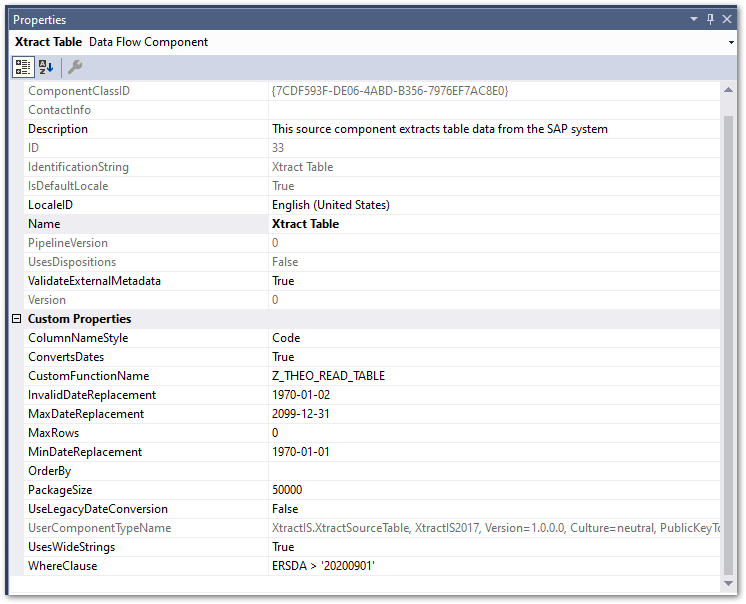
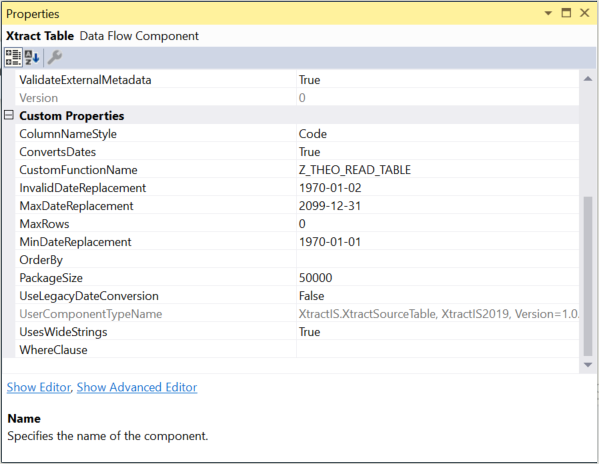
review - part1

Changed region(s): [[0.0, 0.0, 1.0, 1.0], [0.5109, 0.5129, 0.601, 0.5431]]

diff --git a/_includes/_content/en/parametrization/parametrization-via-variables.md b/_includes/_content/en/parametrization/parametrization-via-variables.md
@@ -1,11 +1,20 @@
+### How to use SSIS Variables with Xtract Components
 
-It is possible to use SSIS variables for parameterization. To use variables, place an @ symbol before a variable name.
-
-The following example shows usage of an SSIS variable named @vMONTH as a parameter for a BEx variable in the BW Cube component.
-1. Within the main window of the component, choose [**Variables**] (1). The BEx variable editing window opens (2).
-2. Instead of hardcoding a value for *Calendar Month/Year*, we enter an SSIS variable using the @-notation.
-3. Open the SSIS variables window and define an SSIS variable with the same name, leavig out the @-symbol. Fill that variable by entering a value in the *Value* field or through any other way in SSIS.
-![Properties](/img/content/xis/xis_vars.png){:class="img-reagierend"}
+SSIS variables store values that an SQL Server Integration Services package and its containers, tasks, and event handlers can use at run time.<br>
+To use SSIS variables for parameterization of Xtract components, place an @-symbol before the variable name.
 
 
+The following example shows how an SSIS variable named *@vMONTH* is used as a parameter for a BEx variable in the BW Cube component:
 
+1. Open *Variables* (1) in the main window of the component. The window "Edit BW Query Cube Variables" opens.<br>
+2. Instead of entering a fixed a value for *Calendar Month/Year*, enter an SSIS variable using the @-notation (2).<br>
+3. Confirm you input with **[OK]** and close the component.
+4. Open the SSIS variables window and add an SSIS variable with the same name, but without the @-symbol (3).
+![Variables](/img/content/xis/xis_vars.png){:class="img-reagierend"}
+5. Make sure to select the correct data type. In this case set the data type to *String*.
+6. Use the variable by entering values directly into the *Value* field or by assigning values in SSIS. <br>
+
+******
+#### Related Links
+
+- [Integration Services (SSIS) Variables](https://docs.microsoft.com/en-us/sql/integration-services/integration-services-ssis-variables?view=sql-server-ver15)

diff --git a/content/_en/xtract-is/parameterization/parameterization-prop.md b/content/_en/xtract-is/parameterization/parameterization-prop.md
@@ -1,7 +1,7 @@
 ---
 ref: xis-parametrization-01
 layout: page
-title: Parameterization using SSIS Properties
+title: SSIS Properties
 description: Parameterization using SSIS Properties
 product: xtract-is
 parent: parameterization
@@ -10,14 +10,23 @@ weight: 1
 lang: en_GB
 
 ---
-### Displaying Properties within SSIS
-The custom properties of an Xtract IS component are visible in the *Properties* window. 
+### Properties of Xtract Components in SSIS
+
+The custom properties of an Xtract IS component are displayed in the window "Properties". 
 
 ![Properties](/img/content/xis/properties_component.png){:class="img-reagierend"}
 
-Some custom properties of an Xtract IS component can be set via an SSIS expression. These properties are visible in the *Properties* window of the Data Flow Task (technically: the property's *expressionType* XML-attribute is set to *notify*).
+{: .box-note }
+**Note:** The properties that can be set via SSIS expressions are displayed in the "Properties" window of the Data Flow Task. 
 
-![DataFlow Properties](/img/content/xis/properties_data_flow.png){:class="img-reagierend"}
+<!---(technically: the property's *expressionType* XML-attribute is set to *notify*).
+VS: und was heißt das? Muss ich das wissen? Und falls ja, wofür
+
+![DataFlow Properties](/img/content/xis/properties_data_flow.png){:class="img-reagierend"}????-->
 
 {% include _content/en/parametrization/parametrization-via-properties.md  %}
 
+*****
+#### Related Links:
+- [Use Property Expressions in Packages](https://docs.microsoft.com/en-us/sql/integration-services/expressions/use-property-expressions-in-packages?view=sql-server-ver15)
+- [Dynamization of WHERE conditions of the XIS table components](https://kb.theobald-software.com/xtract-is/Dynamization-of-WHERE-conditions-of-the-XIS-table-components).

diff --git a/content/_en/xtract-is/parameterization.md b/content/_en/xtract-is/parameterization.md
@@ -12,8 +12,10 @@ lang: en_GB
 
 ---
 
-Various settings of an Xtract IS component (e.g., package size, selection criteria, etc.) can be parameterized so that a different value can be assigned at SSIS package runtime.
-Parameters can be populated using standard SSIS functionality, such as expressions, SSIS variables, etc. 
+Various settings of Xtract IS components (e.g., package size, selection criteria, etc.) can be parameterized.
+Use parameters to assign different values at SSIS package runtime.
+Parameters can be populated using standard SSIS functionality, such as expressions and SSIS variables. 
+
 Xtract IS offers two technical options for parameterization:
 - [Properties](./parameterization-prop)
 - [SSIS Variables](./parameterization-var)
@@ -23,7 +25,7 @@ Xtract IS offers two technical options for parameterization:
 
 Depending on the Xtract IS component you can either use SSIS variables or properties or both to set parameters.
 
-### Parameterization Options in the Components 
+### Parameterization Options in Xtract Components 
 
 | Component   | SSIS Variables | Properties |
 |-------------|:-----:|:----:|
@@ -36,6 +38,3 @@ Depending on the Xtract IS component you can either use SSIS variables or proper
 |[Query](../query/parametrization)       |   x    |      |
 | [Report](../report/parametrization) |    x   |      | 
 | [Table](../table/table-parametrization)       | x      |  x    |
-
-
-{% include _content/table-of-contents.html parent=page.childidentifier collection=site.en %}

diff --git a/_includes/_content/en/parametrization/parametrization-via-properties.md b/_includes/_content/en/parametrization/parametrization-via-properties.md
@@ -1,0 +1,13 @@
+### How to Use Expressions for Properties
+
+Step-by-step instructions for the use of [Xtract Table].[WhereClause] #
+In the following example, only results till 01.01 of the current fiscal year are to be extracted. The SAP standard table BKPF - Accounting Document Header and the table field BUDAT - Posting Date in the Document are used.
+
+1. Create an SSIS package, see [Getting Started](../getting-started).
+2. Right-click on the Data Flow canvas and click **Properties**. the window "Properties" opens.
+3. Add an *Expression* by clicking using **[…]**. The window "Property Expression Editor" opens.<br>
+![Expressions](/img/content/xis/expressions.png){:class="img-reagierend"}
+4. Select a property from the drop-down list under *Property*.<br>
+5. Open the "Expression Builder" using the […] button under *Expression*.
+6. Build your Expression and click **[Evaluate Expression]** to check for correct syntax.
+7. Confirm your input with **[OK]**.

diff --git a/content/_en/xtract-is/parameterization/parameterization-var.md b/content/_en/xtract-is/parameterization/parameterization-var.md
@@ -1,7 +1,7 @@
 ---
 ref: xis-parametrization-02
 layout: page
-title: Parameterization using SSIS Variables
+title: SSIS Variables
 description: Parameterization using SSIS Variables
 product: xtract-is
 parent: parameterization
@@ -12,10 +12,3 @@ lang: en_GB
 ---
 
 {% include _content/en/parametrization/parametrization-via-variables.md  %}
-
-
-{: .box-note }
-**Note:** Create SSIS variables of data type *String*.
-
-
-

diff --git a/content/_en/xtract-is/open-hub-service-ohs/parametrization.md b/content/_en/xtract-is/open-hub-service-ohs/parametrization.md
@@ -1,7 +1,7 @@
 ---
 ref: xi-open-hub-service-ohs-05
 layout: page
-title: Parametrization
+title: Parameterization
 description: Parametrization
 product: xtract-is
 parent: open-hub-service-ohs

diff --git a/content/_en/xtract-is/bw-cube/parametrization.md b/content/_en/xtract-is/bw-cube/parametrization.md
@@ -1,7 +1,7 @@
 ---
 ref: xi-bw-cube-05
 layout: page
-title: Parametrization
+title: Parameterization
 description: parametrization
 product: xtract-is
 parent: bw-cube

diff --git a/content/_en/xtract-is/query/parametrization.md b/content/_en/xtract-is/query/parametrization.md
@@ -1,7 +1,7 @@
 ---
 ref: xi-query-05
 layout: page
-title: Parametrization
+title: Parameterization
 description: parametrization
 product: xtract-is
 parent: query

diff --git a/content/_en/xtract-is/bapi/parametrization.md b/content/_en/xtract-is/bapi/parametrization.md
@@ -1,7 +1,7 @@
 ---
 ref: xi-bapi-08
 layout: page
-title: Parametrization
+title: Parameterization
 description: Parametrization
 product: xtract-is
 parent: bapi
